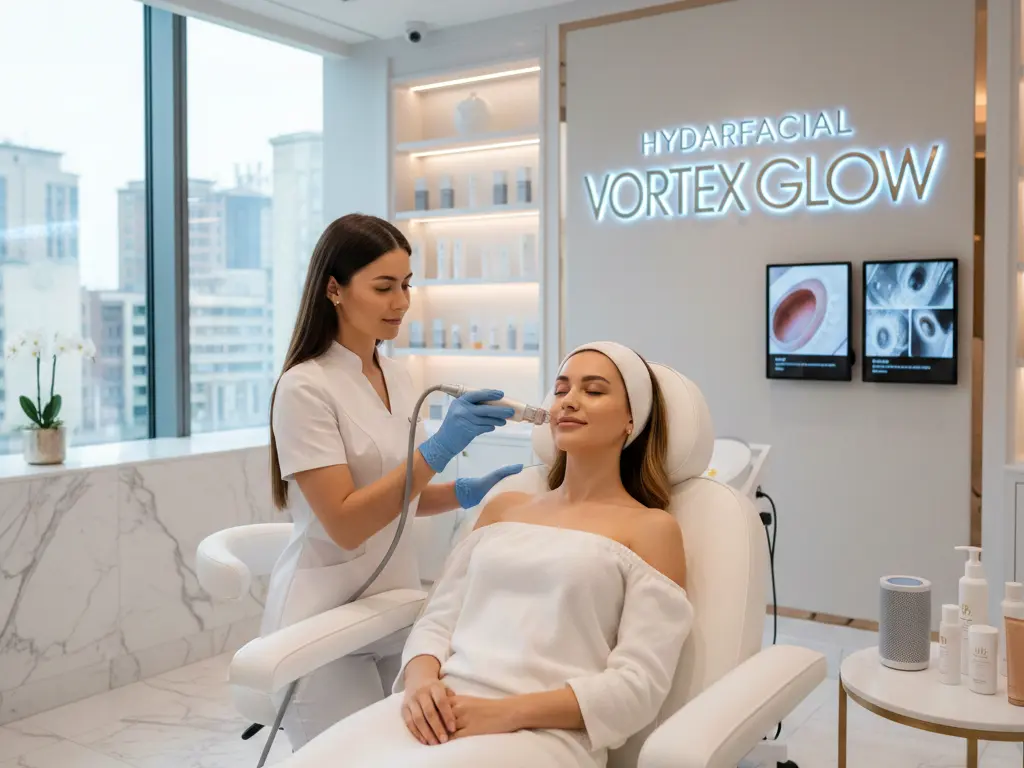
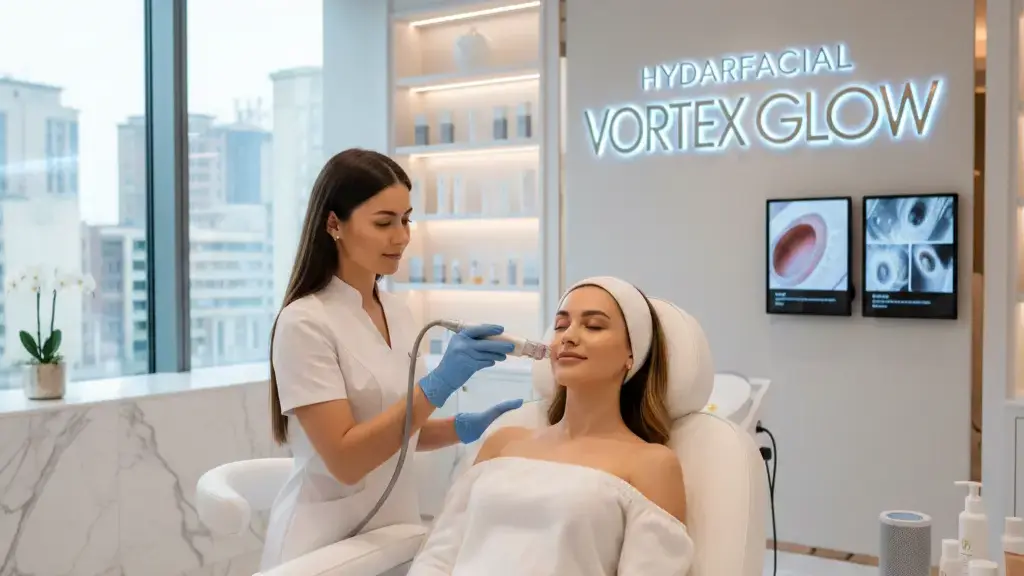
Optimize Image

diff --git a/index.html b/index.html
@@ -89,8 +89,8 @@
                     </div>
                 </div>
                 <div class="absolute top-0 left-1/2 -translate-x-1/2 w-full h-full -z-10">
-                    <div class="absolute top-20 left-1/4 w-96 h-96 bg-orange-100/50 rounded-full blur-[120px]"></div>
-                    <div class="absolute bottom-0 right-1/4 w-96 h-96 bg-blue-50/50 rounded-full blur-[120px]"></div>
+                    <div class="absolute top-20 left-1/4 w-96 h-96 bg-orange-100/50 rounded-full blur-[100px]"></div>
+                    <div class="absolute bottom-0 right-1/4 w-96 h-96 bg-blue-50/50 rounded-full blur-[100px]"></div>
                 </div>
             </div>
 
@@ -162,7 +162,7 @@
                     <div class="lg:col-span-8 grid grid-cols-1 md:grid-cols-2 gap-12">
                         <div class="group">
                             <div class="aspect-[4/5] bg-slate-100 mb-6 overflow-hidden relative shadow-sm">
-                                <img src="/images/service1.webp" alt="Service Laser Toning Rejuvenation"
+                                <img src="/images/service1.webp" width="800" height="640" alt="Service Laser Toning Rejuvenation" loading="lazy" decoding="async"
                                     class="w-full h-full object-cover transition-transform duration-1000 group-hover:scale-110">
                             </div>
                             <h3 class="text-xl font-serif mb-2">Laser Toning Rejuvenation</h3>
@@ -176,7 +176,7 @@
 
                         <div class="group mt-12">
                             <div class="aspect-[4/5] bg-slate-100 mb-6 overflow-hidden relative shadow-sm">
-                                <img src="/images/service2.webp" alt="RF Face Contouring"
+                                <img src="/images/service2.webp" width="800" height="640" alt="RF Face Contouring" loading="lazy" decoding="async"
                                     class="w-full h-full object-cover transition-transform duration-1000 group-hover:scale-110">
                             </div>
                             <h3 class="text-xl font-serif mb-2">RF Face Contouring</h3>
@@ -189,7 +189,7 @@
 
                         <div class="group md:col-span-2">
                             <div class="aspect-[16/9] bg-slate-100 mb-6 overflow-hidden relative shadow-sm">
-                                <img src="/images/service3.webp" alt="Service HydraFacial Vortex Glow"
+                                <img src="/images/service3.webp" width="1024" height="576" alt="Service HydraFacial Vortex Glow" loading="lazy" decoding="async"
                                     class="w-full h-full object-cover transition-transform duration-1000 group-hover:scale-110">
                             </div>
                             <div class="max-w-md">
@@ -234,8 +234,8 @@
                         x-transition:enter-start="opacity-0 translate-x-8"
                         x-transition:enter-end="opacity-100 translate-x-0"
                         class="flex flex-col md:flex-row gap-12 items-center w-full">
-                        <div class="w-full md:w-7/12 aspect-[16/10] overflow-hidden shadow-2xl bg-slate-100">
-                            <img src="/images/device1.webp" class="w-full h-full object-cover"
+                        <div class="w-full md:w-7/12 aspect-[16/9] overflow-hidden shadow-2xl bg-slate-100">
+                            <img src="/images/device1.webp" width="860" height="484" class="w-full h-full object-cover" loading="lazy" decoding="async"
                                 alt="Laser Toning Rejuvenation">
                         </div>
                         <div class="w-full md:w-5/12 space-y-6">
@@ -262,8 +262,8 @@
                         x-transition:enter-start="opacity-0 translate-x-8"
                         x-transition:enter-end="opacity-100 translate-x-0"
                         class="flex flex-col md:flex-row gap-12 items-center w-full">
-                        <div class="w-full md:w-7/12 aspect-[16/10] overflow-hidden shadow-2xl bg-slate-100">
-                            <img src="/images/device2.webp" class="w-full h-full object-cover" alt="HIFU Ultra Lifting">
+                        <div class="w-full md:w-7/12 aspect-[16/9] overflow-hidden shadow-2xl bg-slate-100">
+                            <img src="/images/device2.webp" width="860" height="484" loading="lazy" decoding="async" class="w-full h-full object-cover" alt="HIFU Ultra Lifting">
                         </div>
                         <div class="w-full md:w-5/12 space-y-6">
                             <h3 class="text-3xl font-serif text-slate-800 leading-tight">HIFU <br>Ultra Lifting</h3>
@@ -288,8 +288,8 @@
                         x-transition:enter-start="opacity-0 translate-x-8"
                         x-transition:enter-end="opacity-100 translate-x-0"
                         class="flex flex-col md:flex-row gap-12 items-center w-full">
-                        <div class="w-full md:w-7/12 aspect-[16/10] overflow-hidden shadow-2xl bg-slate-100">
-                            <img src="/images/device3.webp" class="w-full h-full object-cover"
+                        <div class="w-full md:w-7/12 aspect-[16/9] overflow-hidden shadow-2xl bg-slate-100">
+                            <img src="/images/device3.webp" width="860" height="484" class="w-full h-full object-cover" loading="lazy" decoding="async"
                                 alt="Cryo-Soothe Rejuvenation">
                         </div>
                         <div class="w-full md:w-5/12 space-y-6">

diff --git a/doctors.html b/doctors.html
@@ -59,31 +59,33 @@
             </div>
         </section>
 
-        <section class="py-20 bg-white" x-data="{ 
-    activeDoctor: 1,
-    doctors: [
-        {
-            id: 1,
-            name: 'Dr. Adriana Mariana, M.Biomed',
-            role: 'Founder & Lead Physician',
-            specialty: 'Dermatology & Anti-Aging Specialist',
-            bio: 'Dengan pengalaman lebih dari 12 tahun, Dr. Adriana mendedikasikan karirnya untuk regenerasi sel kulit. Beliau percaya kecantikan harus menonjolkan karakter alami yang sudah ada.',
-            edu: 'UCL Medical School, London',
-            fellow: 'Korean Society of Aesthetic Surgery',
-            img: '/images/expert1.webp'
-        },
-        {
-            id: 2,
-            name: 'Dr. Kim Seun Yeok, Sp.KK',
-            role: 'Senior Dermatologist',
-            specialty: 'Laser & Facial Rejuvenation Expert',
-            bio: 'Dr. Kim adalah ahli dalam teknologi laser medis. Beliau berfokus pada perbaikan tekstur kulit dan penanganan pigmentasi kompleks dengan presisi tinggi.',
-            edu: 'Universitas Seoul (Spesialis Kulit)',
-            fellow: 'Korean Society of Aesthetic Surgery',
-            img: '/images/expert2.webp'
-        }
-    ]
-}">
+        <section class="py-20 bg-white" 
+            x-data="{ 
+                activeDoctor: 1,
+                doctors: [
+                    {
+                        id: 1,
+                        name: 'Dr. Adriana Mariana, M.Biomed',
+                        role: 'Founder & Lead Physician',
+                        specialty: 'Dermatology & Anti-Aging Specialist',
+                        bio: 'Dengan pengalaman lebih dari 12 tahun, Dr. Adriana mendedikasikan karirnya untuk regenerasi sel kulit. Beliau percaya kecantikan harus menonjolkan karakter alami yang sudah ada.',
+                        edu: 'UCL Medical School, London',
+                        fellow: 'Korean Society of Aesthetic Surgery',
+                        img: '/images/expert1.webp'
+                    },
+                    {
+                        id: 2,
+                        name: 'Dr. Kim Seun Yeok, Sp.KK',
+                        role: 'Senior Dermatologist',
+                        specialty: 'Laser & Facial Rejuvenation Expert',
+                        bio: 'Dr. Kim adalah ahli dalam teknologi laser medis. Beliau berfokus pada perbaikan tekstur kulit dan penanganan pigmentasi kompleks dengan presisi tinggi.',
+                        edu: 'Universitas Seoul (Spesialis Kulit)',
+                        fellow: 'Korean Society of Aesthetic Surgery',
+                        img: '/images/expert2.webp'
+                    }
+                ]
+            }"
+        >
             <div class="max-w-7xl mx-auto px-6">
                 <template x-for="doc in doctors" :key="doc.id">
                     <div x-show="activeDoctor === doc.id" x-transition:enter="transition ease-out duration-700"
@@ -94,7 +96,7 @@
                             <div
                                 class="aspect-[4/5] overflow-hidden bg-slate-100 relative z-10 transition-transform duration-700 ease-in-out group-hover:-translate-y-4 group-hover:-translate-x-4 shadow-xl">
                                 <img :src="doc.img" alt="Expertise"
-                                    class="w-full h-full object-cover grayscale group-hover:grayscale-0 transition-all duration-1000 group-hover:scale-110">
+                                    class="w-full h-full object-cover md:grayscale group-hover:grayscale-0 transition-all duration-1000 group-hover:scale-110">
                             </div>
 
                             <div class="absolute top-0 left-0 w-full h-full border border-orange-200 z-0 
